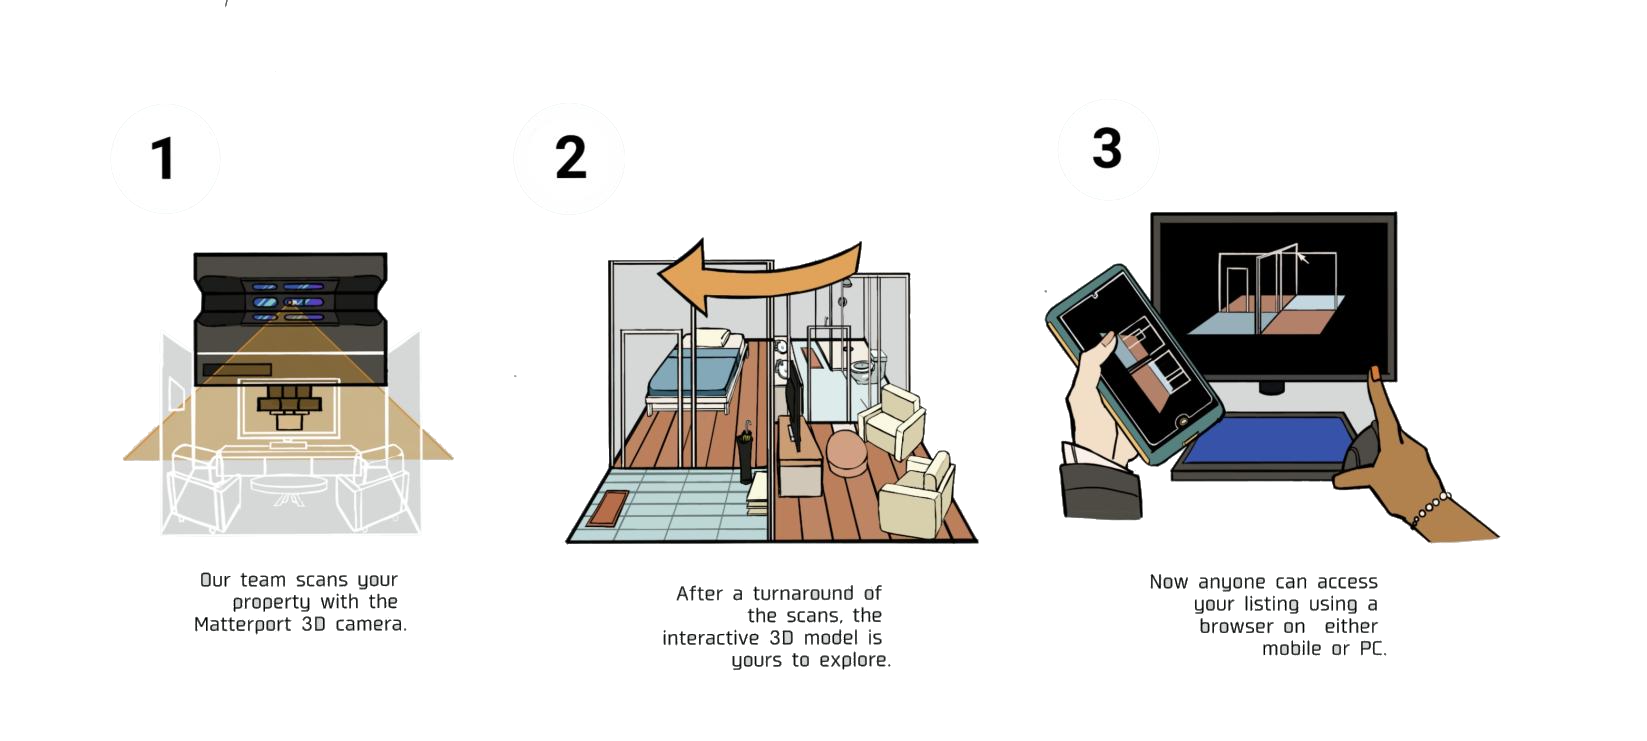
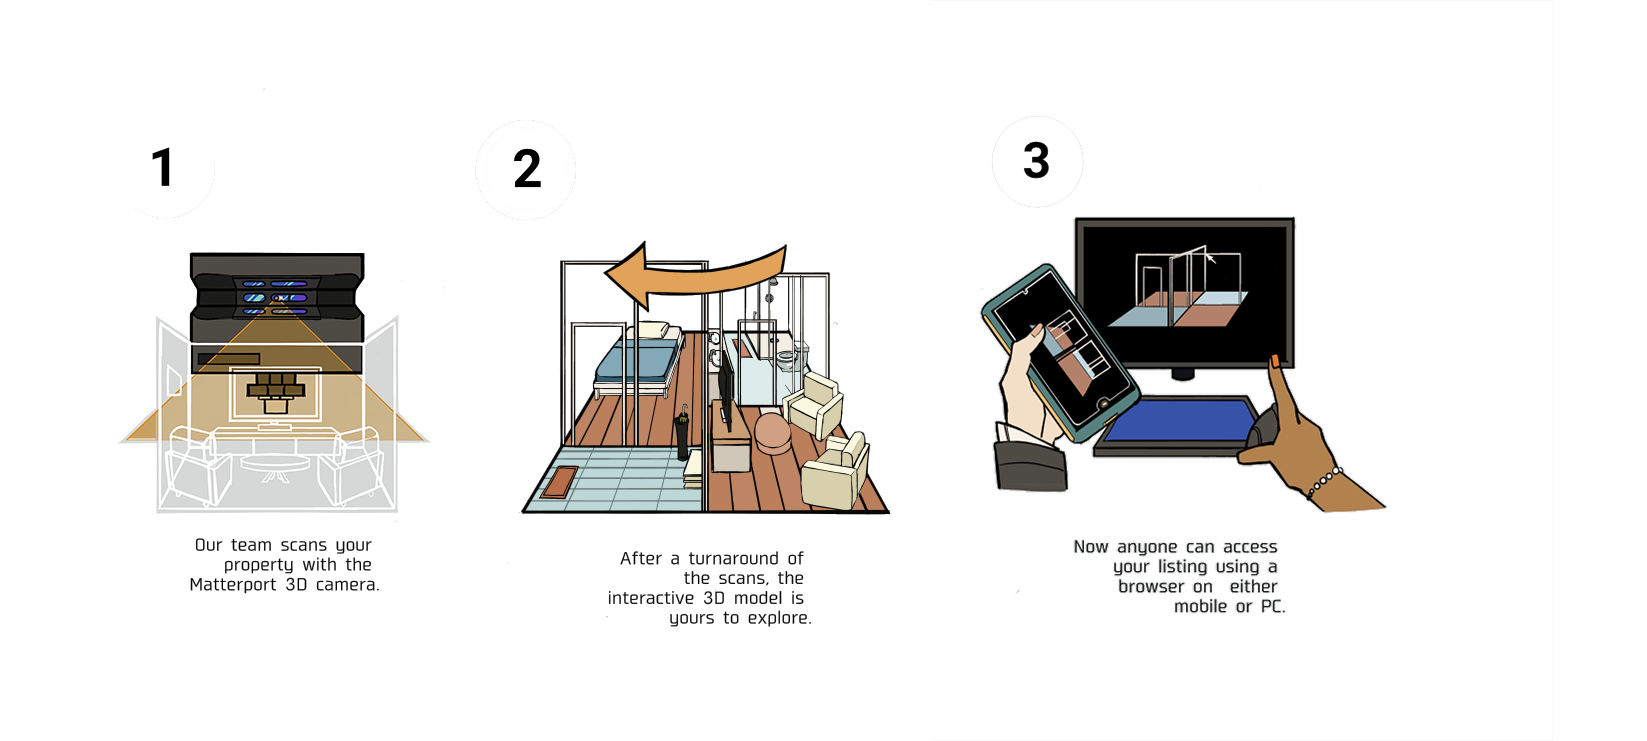
Remastered 2nd image on index.html

diff --git a/stylesheets/index.css b/stylesheets/index.css
@@ -131,9 +131,9 @@ body {
 
 #i_strip_1_img_2 img {
 	position: absolute;
-	width: 80vw;
+	width: 85.8vw;
 	top: calc(23.2 * (1vh + 1vw));
-	left: 2vw;
+	left: 1vw;
 }
 
 #i_strip_2 {
